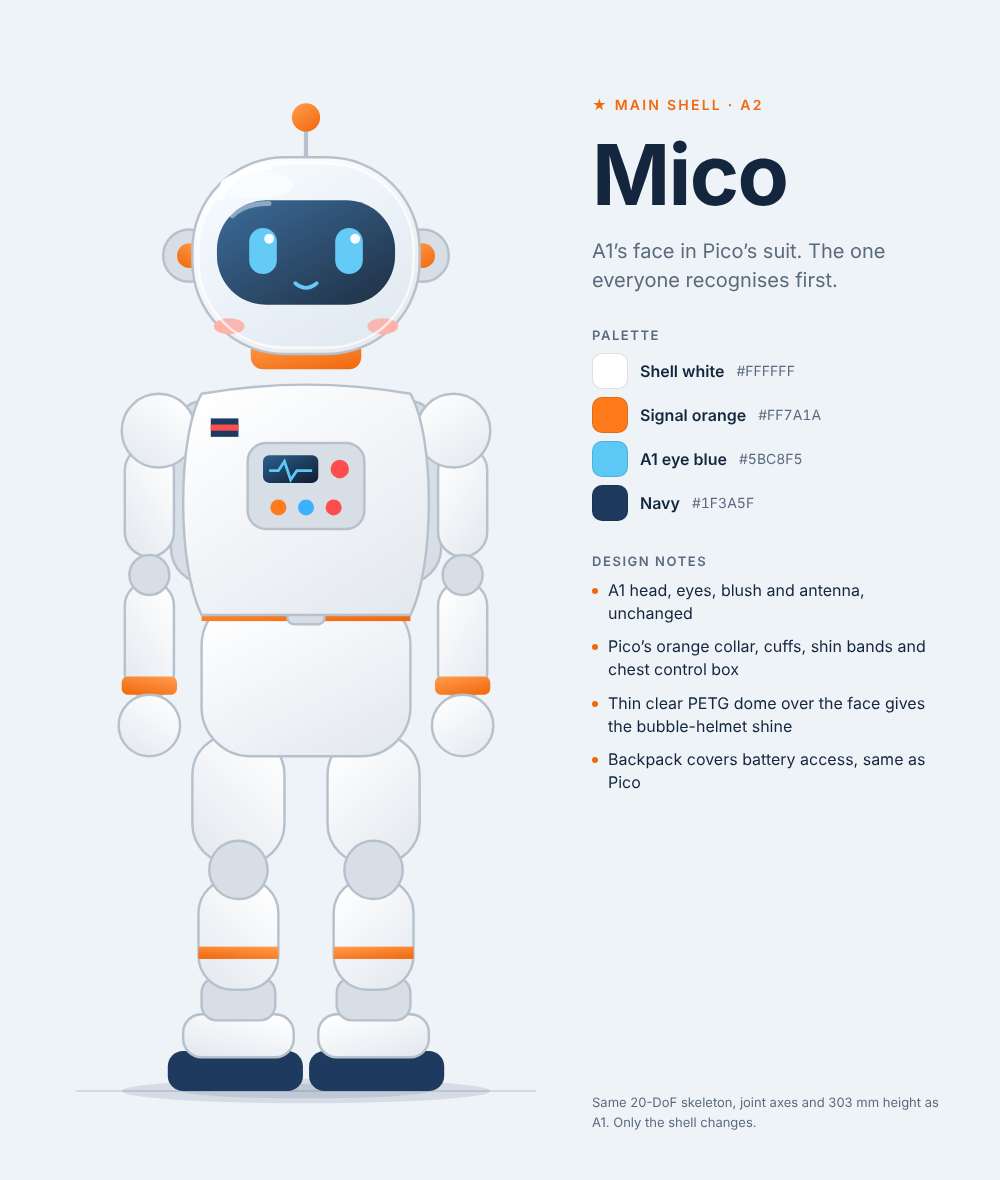
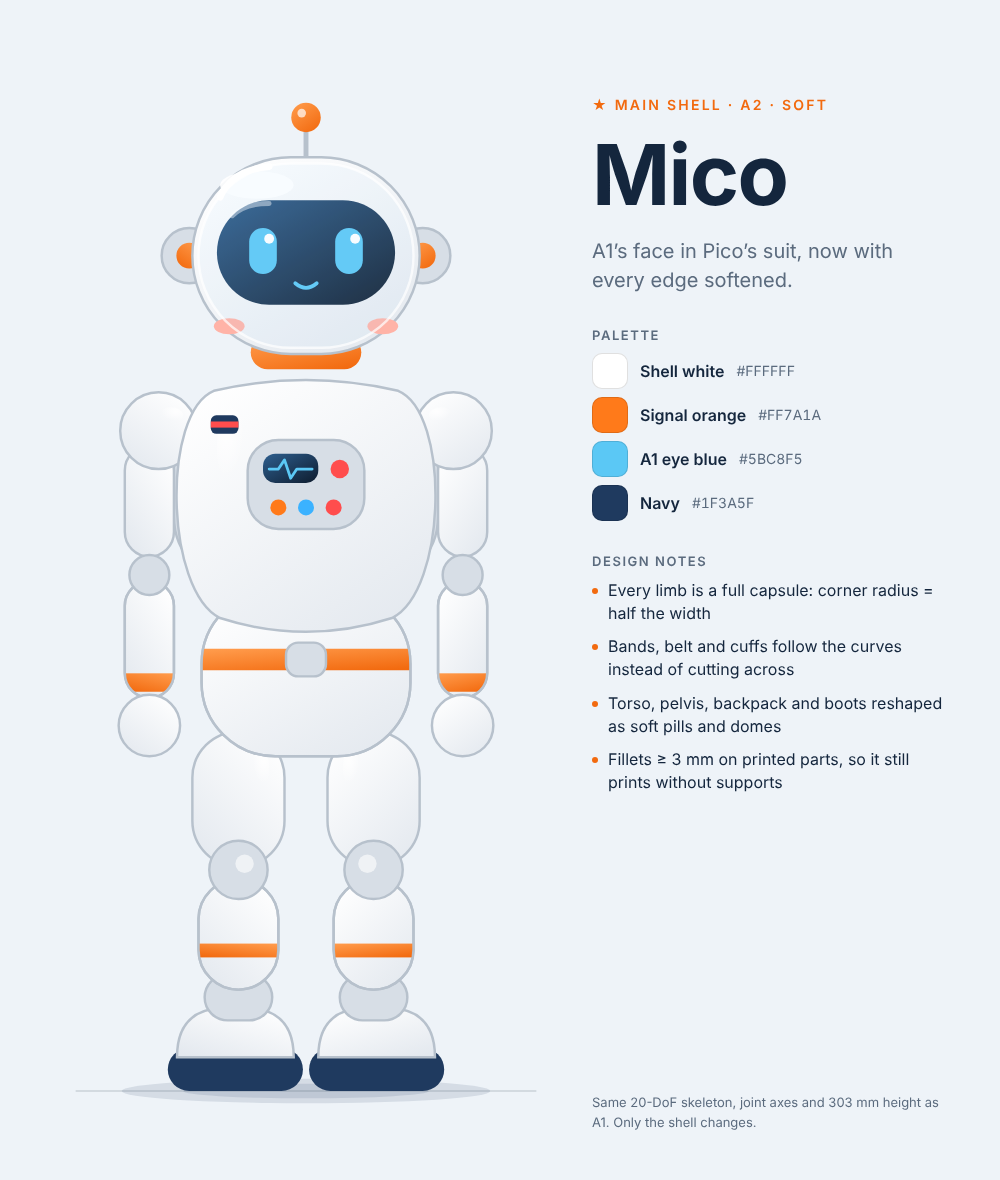
docs(design): soften Mico's shell edges

diff --git a/docs/design/sketch_shell_a/A2_Mico.dc.html b/docs/design/sketch_shell_a/A2_Mico.dc.html
@@ -15,15 +15,15 @@ body{margin:0}
 </style>
 </helmet>
 <div style="width: 1000px; height: 1180px; box-sizing: border-box; padding: 56px 56px 48px; background: #EEF3F8; display: flex; gap: 36px; font-family: Inter, system-ui, sans-serif; color: #14263D">
-<svg viewBox="-80 -6 160 351" width="500" height="1078" role="img" aria-label="A2 Mico: A1’s face in Pico’s suit. The one everyone recognises first." style="flex: none">
-<defs><linearGradient id="mi_sh" x1="0.15" y1="0" x2="0.85" y2="1"><stop offset="0" stop-color="#FFFFFF"></stop><stop offset="1" stop-color="#E4E9EF"></stop></linearGradient><linearGradient id="mi_ac" x1="0.15" y1="0" x2="0.85" y2="1"><stop offset="0" stop-color="#FF9A4A"></stop><stop offset="1" stop-color="#F26A0F"></stop></linearGradient><linearGradient id="mi_vi" x1="0" y1="0" x2="1" y2="1"><stop offset="0" stop-color="#2E5F8F"></stop><stop offset="1" stop-color="#0E1C2E"></stop></linearGradient></defs>
+<svg viewBox="-80 -6 160 351" width="500" height="1078" role="img" aria-label="A2 Mico: A1’s face in Pico’s suit, now with every edge softened." style="flex: none">
+<defs><linearGradient id="mi_sh" x1="0.15" y1="0" x2="0.85" y2="1"><stop offset="0" stop-color="#FFFFFF"></stop><stop offset="1" stop-color="#E4E9EF"></stop></linearGradient><linearGradient id="mi_ac" x1="0.15" y1="0" x2="0.85" y2="1"><stop offset="0" stop-color="#FF9A4A"></stop><stop offset="1" stop-color="#F26A0F"></stop></linearGradient><linearGradient id="mi_vi" x1="0" y1="0" x2="1" y2="1"><stop offset="0" stop-color="#2E5F8F"></stop><stop offset="1" stop-color="#0E1C2E"></stop></linearGradient><radialGradient id="mi_gl" cx="0.3" cy="0.25" r="0.6"><stop offset="0" stop-color="#FFFFFF" stop-opacity="0.9"></stop><stop offset="1" stop-color="#FFFFFF" stop-opacity="0"></stop></radialGradient><clipPath id="mi_shin" clipPathUnits="userSpaceOnUse"><rect x="9" y="262" width="26" height="36" rx="13"></rect></clipPath><clipPath id="mi_fore" clipPathUnits="userSpaceOnUse"><rect x="43" y="165" width="16" height="38" rx="8"></rect></clipPath><clipPath id="mi_pel" clipPathUnits="userSpaceOnUse"><rect x="-34" y="168" width="68" height="54" rx="24"></rect></clipPath></defs>
 <line x1="-75" x2="75" y1="331" y2="331" stroke="#14263D" stroke-opacity="0.12" stroke-width="0.6"></line>
-<ellipse cx="0" cy="331" rx="60" ry="4" fill="#1F3A5F" fill-opacity="0.12"></ellipse><ellipse cx="0" cy="331" rx="40" ry="2.4" fill="#1F3A5F" fill-opacity="0.12"></ellipse><rect x="-44" y="106" width="88" height="60" rx="12" fill="#D7DEE6" stroke="#B7C1CC" stroke-width="0.8"></rect><g><rect x="1" y="318" width="44" height="13" rx="5" fill="#1F3A5F"></rect><rect x="4" y="306" width="36" height="14" rx="6" fill="url(#mi_sh)" stroke="#B7C1CC" stroke-width="0.8"></rect><rect x="10" y="294" width="24" height="14" rx="5" fill="#D7DEE6" stroke="#B7C1CC" stroke-width="0.8"></rect><rect x="9" y="262" width="26" height="36" rx="11" fill="url(#mi_sh)" stroke="#B7C1CC" stroke-width="0.8"></rect><rect x="9" y="284" width="26" height="4" fill="url(#mi_ac)"></rect><rect x="7" y="215" width="30" height="42" rx="13" fill="url(#mi_sh)" stroke="#B7C1CC" stroke-width="0.8"></rect><circle cx="22" cy="259" r="9.5" fill="#D7DEE6" stroke="#B7C1CC" stroke-width="0.8"></circle><rect x="43" y="121" width="16" height="36" rx="8" fill="url(#mi_sh)" stroke="#B7C1CC" stroke-width="0.8"></rect><rect x="43" y="165" width="16" height="38" rx="8" fill="url(#mi_sh)" stroke="#B7C1CC" stroke-width="0.8"></rect><rect x="42" y="196" width="18" height="6" rx="2" fill="url(#mi_ac)"></rect><circle cx="51" cy="163" r="6.5" fill="#D7DEE6" stroke="#B7C1CC" stroke-width="0.8"></circle><circle cx="51" cy="212" r="10" fill="url(#mi_sh)" stroke="#B7C1CC" stroke-width="0.8"></circle><circle cx="48" cy="116" r="12" fill="url(#mi_sh)" stroke="#B7C1CC" stroke-width="0.8"></circle><circle cx="38" cy="59" r="8.5" fill="#D7DEE6" stroke="#B7C1CC" stroke-width="0.8"></circle><circle cx="38" cy="59" r="4" fill="url(#mi_ac)"></circle></g><g transform="scale(-1 1)"><rect x="1" y="318" width="44" height="13" rx="5" fill="#1F3A5F"></rect><rect x="4" y="306" width="36" height="14" rx="6" fill="url(#mi_sh)" stroke="#B7C1CC" stroke-width="0.8"></rect><rect x="10" y="294" width="24" height="14" rx="5" fill="#D7DEE6" stroke="#B7C1CC" stroke-width="0.8"></rect><rect x="9" y="262" width="26" height="36" rx="11" fill="url(#mi_sh)" stroke="#B7C1CC" stroke-width="0.8"></rect><rect x="9" y="284" width="26" height="4" fill="url(#mi_ac)"></rect><rect x="7" y="215" width="30" height="42" rx="13" fill="url(#mi_sh)" stroke="#B7C1CC" stroke-width="0.8"></rect><circle cx="22" cy="259" r="9.5" fill="#D7DEE6" stroke="#B7C1CC" stroke-width="0.8"></circle><rect x="43" y="121" width="16" height="36" rx="8" fill="url(#mi_sh)" stroke="#B7C1CC" stroke-width="0.8"></rect><rect x="43" y="165" width="16" height="38" rx="8" fill="url(#mi_sh)" stroke="#B7C1CC" stroke-width="0.8"></rect><rect x="42" y="196" width="18" height="6" rx="2" fill="url(#mi_ac)"></rect><circle cx="51" cy="163" r="6.5" fill="#D7DEE6" stroke="#B7C1CC" stroke-width="0.8"></circle><circle cx="51" cy="212" r="10" fill="url(#mi_sh)" stroke="#B7C1CC" stroke-width="0.8"></circle><circle cx="48" cy="116" r="12" fill="url(#mi_sh)" stroke="#B7C1CC" stroke-width="0.8"></circle><circle cx="38" cy="59" r="8.5" fill="#D7DEE6" stroke="#B7C1CC" stroke-width="0.8"></circle><circle cx="38" cy="59" r="4" fill="url(#mi_ac)"></circle></g><rect x="-34" y="170" width="68" height="52" rx="16" fill="url(#mi_sh)" stroke="#B7C1CC" stroke-width="0.8"></rect><rect x="-34" y="170" width="68" height="8" fill="url(#mi_ac)"></rect><rect x="-6" y="169" width="12" height="10" rx="2" fill="#D7DEE6" stroke="#B7C1CC" stroke-width="0.8"></rect><path d="M -34 104 C -42 118 -42 160 -34 176 L 34 176 C 42 160 42 118 34 104 Q 0 98 -34 104 Z" fill="url(#mi_sh)" stroke="#B7C1CC" stroke-width="0.8"></path><rect x="-19" y="120" width="38" height="28" rx="6" fill="#D7DEE6" stroke="#B7C1CC" stroke-width="0.8"></rect><rect x="-14" y="124" width="18" height="9" rx="2" fill="url(#mi_vi)"></rect><path d="M -12 129 h 3 l 2 -3 l 2 6 l 2 -3 h 5" fill="none" stroke="#5BC8F5" stroke-width="0.9"></path><circle cx="11" cy="128.5" r="3" fill="#FF4D4D"></circle><circle cx="-9" cy="141" r="2.6" fill="#FF7A1A"></circle><circle cx="0" cy="141" r="2.6" fill="#3BB2FF"></circle><circle cx="9" cy="141" r="2.6" fill="#FF4D4D"></circle><rect x="-31" y="112" width="9" height="6" fill="#1F3A5F"></rect><rect x="-31" y="114" width="9" height="2" fill="#FF4D4D"></rect><rect x="-18" y="86" width="36" height="10" rx="4" fill="url(#mi_ac)"></rect><line x1="0" y1="27" x2="0" y2="17" stroke="#B7C1CC" stroke-width="1.4" stroke-linecap="round"></line><circle cx="0" cy="14" r="4.6" fill="url(#mi_ac)"></circle><rect x="-37" y="27" width="74" height="64" rx="30" fill="url(#mi_sh)" stroke="#B7C1CC" stroke-width="0.8"></rect><ellipse cx="-16" cy="36" rx="12" ry="4.5" fill="#FFFFFF" fill-opacity="0.9"></ellipse><rect x="-29" y="41" width="58" height="34" rx="16" fill="url(#mi_vi)"></rect><rect x="9.5" y="50" width="9" height="15" rx="4.5" fill="#5BC8F5"></rect><rect x="-18.5" y="50" width="9" height="15" rx="4.5" fill="#5BC8F5"></rect><circle cx="16" cy="53.5" r="1.6" fill="#FFFFFF"></circle><circle cx="-12" cy="53.5" r="1.6" fill="#FFFFFF"></circle><path d="M -3.5 68 Q 0 71 3.5 68" fill="none" stroke="#5BC8F5" stroke-width="1.2" stroke-linecap="round"></path><path d="M -24 46 Q -20 42 -12 42" fill="none" stroke="#FFFFFF" stroke-opacity="0.45" stroke-width="1.6" stroke-linecap="round"></path><ellipse cx="25" cy="82" rx="5" ry="2.6" fill="#FFB3A7"></ellipse><ellipse cx="-25" cy="82" rx="5" ry="2.6" fill="#FFB3A7"></ellipse><rect x="-35" y="29" width="70" height="60" rx="28" fill="#BFE6FF" fill-opacity="0.10" stroke="#FFFFFF" stroke-opacity="0.7" stroke-width="0.8"></rect><path d="M -28 40 Q -24 31 -12 30" fill="none" stroke="#FFFFFF" stroke-width="2.2" stroke-linecap="round"></path>
+<ellipse cx="0" cy="331" rx="60" ry="4" fill="#1F3A5F" fill-opacity="0.12"></ellipse><ellipse cx="0" cy="331" rx="40" ry="2.4" fill="#1F3A5F" fill-opacity="0.12"></ellipse><rect x="-43" y="106" width="86" height="60" rx="22" fill="#D7DEE6" stroke="#B7C1CC" stroke-width="0.8"></rect><g><rect x="1" y="317" width="44" height="14" rx="7" fill="#1F3A5F"></rect><path d="M 4 320 Q 4 305 18 304 L 28 304 Q 42 305 42 320 Z" fill="url(#mi_sh)" stroke="#B7C1CC" stroke-width="0.8"></path><rect x="11" y="293" width="22" height="15" rx="7.5" fill="#D7DEE6" stroke="#B7C1CC" stroke-width="0.8"></rect><rect x="9" y="262" width="26" height="36" rx="13" fill="url(#mi_sh)" stroke="#B7C1CC" stroke-width="0.8"></rect><g clip-path="url(#mi_shin)"><rect x="8" y="283" width="28" height="4.5" fill="url(#mi_ac)"></rect></g><rect x="9" y="262" width="26" height="36" rx="13" fill="none" stroke="#B7C1CC" stroke-width="0.8"></rect><rect x="7" y="214" width="30" height="44" rx="15" fill="url(#mi_sh)" stroke="#B7C1CC" stroke-width="0.8"></rect><ellipse cx="15" cy="226" rx="3" ry="7" fill="url(#mi_gl)"></ellipse><circle cx="22" cy="259" r="9.5" fill="#D7DEE6" stroke="#B7C1CC" stroke-width="0.8"></circle><circle cx="20" cy="257" r="3" fill="#FFFFFF" fill-opacity="0.6"></circle><rect x="43" y="121" width="16" height="36" rx="8" fill="url(#mi_sh)" stroke="#B7C1CC" stroke-width="0.8"></rect><rect x="43" y="165" width="16" height="38" rx="8" fill="url(#mi_sh)" stroke="#B7C1CC" stroke-width="0.8"></rect><g clip-path="url(#mi_fore)"><rect x="42" y="195" width="18" height="6" fill="url(#mi_ac)"></rect></g><rect x="43" y="165" width="16" height="38" rx="8" fill="none" stroke="#B7C1CC" stroke-width="0.8"></rect><circle cx="51" cy="163" r="6.5" fill="#D7DEE6" stroke="#B7C1CC" stroke-width="0.8"></circle><circle cx="51" cy="212" r="10" fill="url(#mi_sh)" stroke="#B7C1CC" stroke-width="0.8"></circle><circle cx="48" cy="116" r="12.5" fill="url(#mi_sh)" stroke="#B7C1CC" stroke-width="0.8"></circle><ellipse cx="44" cy="111" rx="4" ry="2.6" fill="url(#mi_gl)"></ellipse><circle cx="38" cy="59" r="9" fill="#D7DEE6" stroke="#B7C1CC" stroke-width="0.8"></circle><circle cx="38" cy="59" r="4.2" fill="url(#mi_ac)"></circle></g><g transform="scale(-1 1)"><rect x="1" y="317" width="44" height="14" rx="7" fill="#1F3A5F"></rect><path d="M 4 320 Q 4 305 18 304 L 28 304 Q 42 305 42 320 Z" fill="url(#mi_sh)" stroke="#B7C1CC" stroke-width="0.8"></path><rect x="11" y="293" width="22" height="15" rx="7.5" fill="#D7DEE6" stroke="#B7C1CC" stroke-width="0.8"></rect><rect x="9" y="262" width="26" height="36" rx="13" fill="url(#mi_sh)" stroke="#B7C1CC" stroke-width="0.8"></rect><g clip-path="url(#mi_shin)"><rect x="8" y="283" width="28" height="4.5" fill="url(#mi_ac)"></rect></g><rect x="9" y="262" width="26" height="36" rx="13" fill="none" stroke="#B7C1CC" stroke-width="0.8"></rect><rect x="7" y="214" width="30" height="44" rx="15" fill="url(#mi_sh)" stroke="#B7C1CC" stroke-width="0.8"></rect><ellipse cx="15" cy="226" rx="3" ry="7" fill="url(#mi_gl)"></ellipse><circle cx="22" cy="259" r="9.5" fill="#D7DEE6" stroke="#B7C1CC" stroke-width="0.8"></circle><circle cx="20" cy="257" r="3" fill="#FFFFFF" fill-opacity="0.6"></circle><rect x="43" y="121" width="16" height="36" rx="8" fill="url(#mi_sh)" stroke="#B7C1CC" stroke-width="0.8"></rect><rect x="43" y="165" width="16" height="38" rx="8" fill="url(#mi_sh)" stroke="#B7C1CC" stroke-width="0.8"></rect><g clip-path="url(#mi_fore)"><rect x="42" y="195" width="18" height="6" fill="url(#mi_ac)"></rect></g><rect x="43" y="165" width="16" height="38" rx="8" fill="none" stroke="#B7C1CC" stroke-width="0.8"></rect><circle cx="51" cy="163" r="6.5" fill="#D7DEE6" stroke="#B7C1CC" stroke-width="0.8"></circle><circle cx="51" cy="212" r="10" fill="url(#mi_sh)" stroke="#B7C1CC" stroke-width="0.8"></circle><circle cx="48" cy="116" r="12.5" fill="url(#mi_sh)" stroke="#B7C1CC" stroke-width="0.8"></circle><ellipse cx="44" cy="111" rx="4" ry="2.6" fill="url(#mi_gl)"></ellipse><circle cx="38" cy="59" r="9" fill="#D7DEE6" stroke="#B7C1CC" stroke-width="0.8"></circle><circle cx="38" cy="59" r="4.2" fill="url(#mi_ac)"></circle></g><rect x="-34" y="168" width="68" height="54" rx="24" fill="url(#mi_sh)" stroke="#B7C1CC" stroke-width="0.8"></rect><g clip-path="url(#mi_pel)"><rect x="-35" y="187" width="70" height="7" fill="url(#mi_ac)"></rect></g><rect x="-34" y="168" width="68" height="54" rx="24" fill="none" stroke="#B7C1CC" stroke-width="0.8"></rect><rect x="-6.5" y="185" width="13" height="11" rx="4" fill="#D7DEE6" stroke="#B7C1CC" stroke-width="0.8"></rect><path d="M -30 103 C -47 110 -46 168 -28 177 Q 0 186 28 177 C 46 168 47 110 30 103 Q 0 96 -30 103 Z" fill="url(#mi_sh)" stroke="#B7C1CC" stroke-width="0.8"></path><ellipse cx="-24" cy="122" rx="5" ry="13" fill="url(#mi_gl)"></ellipse><rect x="-19" y="119" width="38" height="29" rx="10" fill="#D7DEE6" stroke="#B7C1CC" stroke-width="0.8"></rect><rect x="-14" y="123.5" width="18" height="9.5" rx="4" fill="url(#mi_vi)"></rect><path d="M -12 128.5 h 3 l 2 -3 l 2 6 l 2 -3 h 5" fill="none" stroke="#5BC8F5" stroke-width="0.9" stroke-linecap="round" stroke-linejoin="round"></path><circle cx="11" cy="128.5" r="3" fill="#FF4D4D"></circle><circle cx="-9" cy="141" r="2.6" fill="#FF7A1A"></circle><circle cx="0" cy="141" r="2.6" fill="#3BB2FF"></circle><circle cx="9" cy="141" r="2.6" fill="#FF4D4D"></circle><rect x="-31" y="111" width="9" height="6" rx="1.8" fill="#1F3A5F"></rect><rect x="-31" y="113" width="9" height="2" fill="#FF4D4D"></rect><rect x="-18" y="85" width="36" height="11" rx="5.5" fill="url(#mi_ac)"></rect><line x1="0" y1="27" x2="0" y2="17" stroke="#B7C1CC" stroke-width="1.6" stroke-linecap="round"></line><circle cx="0" cy="14" r="4.8" fill="url(#mi_ac)"></circle><circle cx="-1.4" cy="12.6" r="1.4" fill="#FFFFFF" fill-opacity="0.7"></circle><rect x="-37" y="27" width="74" height="64" rx="32" fill="url(#mi_sh)" stroke="#B7C1CC" stroke-width="0.8"></rect><ellipse cx="-16" cy="36" rx="12" ry="4.5" fill="#FFFFFF" fill-opacity="0.9"></ellipse><rect x="-29" y="41" width="58" height="34" rx="17" fill="url(#mi_vi)"></rect><rect x="9.5" y="50" width="9" height="15" rx="4.5" fill="#5BC8F5"></rect><rect x="-18.5" y="50" width="9" height="15" rx="4.5" fill="#5BC8F5"></rect><circle cx="16" cy="53.5" r="1.6" fill="#FFFFFF"></circle><circle cx="-12" cy="53.5" r="1.6" fill="#FFFFFF"></circle><path d="M -3.5 68 Q 0 71 3.5 68" fill="none" stroke="#5BC8F5" stroke-width="1.2" stroke-linecap="round"></path><path d="M -24 46 Q -20 42 -12 42" fill="none" stroke="#FFFFFF" stroke-opacity="0.45" stroke-width="1.6" stroke-linecap="round"></path><ellipse cx="25" cy="82" rx="5" ry="2.6" fill="#FFB3A7"></ellipse><ellipse cx="-25" cy="82" rx="5" ry="2.6" fill="#FFB3A7"></ellipse><rect x="-35" y="29" width="70" height="60" rx="30" fill="#BFE6FF" fill-opacity="0.10" stroke="#FFFFFF" stroke-opacity="0.7" stroke-width="0.8"></rect><path d="M -28 40 Q -24 31 -12 30" fill="none" stroke="#FFFFFF" stroke-width="2.2" stroke-linecap="round"></path>
 </svg>
 <div style="flex: 1 1 0; min-width: 0; display: flex; flex-direction: column; gap: 22px; padding-top: 40px">
-<p style="margin: 0; font-size: 14px; font-weight: 600; letter-spacing: 0.16em; color: #F26A0F">★ MAIN SHELL · A2</p>
+<p style="margin: 0; font-size: 14px; font-weight: 600; letter-spacing: 0.16em; color: #F26A0F">★ MAIN SHELL · A2 · SOFT</p>
 <h1 style="margin: 0; font-family: 'Space Grotesk', Inter, sans-serif; font-size: 84px; line-height: 0.95; font-weight: 700; letter-spacing: -0.02em">Mico</h1>
-<p style="margin: 0; font-size: 20px; line-height: 1.45; color: #5B6B7E">A1’s face in Pico’s suit. The one everyone recognises first.</p>
+<p style="margin: 0; font-size: 20px; line-height: 1.45; color: #5B6B7E">A1’s face in Pico’s suit, now with every edge softened.</p>
 <div style="display: flex; flex-direction: column; gap: 10px; padding-top: 10px">
 <p style="margin: 0; font-size: 13px; font-weight: 600; letter-spacing: 0.12em; color: #5B6B7E">PALETTE</p>
 <div style="display: flex; flex-direction: column; gap: 8px">
@@ -35,10 +35,10 @@ body{margin:0}
 </div>
 <div style="display: flex; flex-direction: column; gap: 10px; padding-top: 10px">
 <p style="margin: 0; font-size: 13px; font-weight: 600; letter-spacing: 0.12em; color: #5B6B7E">DESIGN NOTES</p>
-<div style="display: flex; gap: 10px; font-size: 16px; line-height: 1.45"><span style="width: 6px; height: 6px; border-radius: 3px; background: #F26A0F; flex: none; margin-top: 9px"></span><span>A1 head, eyes, blush and antenna, unchanged</span></div>
-<div style="display: flex; gap: 10px; font-size: 16px; line-height: 1.45"><span style="width: 6px; height: 6px; border-radius: 3px; background: #F26A0F; flex: none; margin-top: 9px"></span><span>Pico’s orange collar, cuffs, shin bands and chest control box</span></div>
-<div style="display: flex; gap: 10px; font-size: 16px; line-height: 1.45"><span style="width: 6px; height: 6px; border-radius: 3px; background: #F26A0F; flex: none; margin-top: 9px"></span><span>Thin clear PETG dome over the face gives the bubble-helmet shine</span></div>
-<div style="display: flex; gap: 10px; font-size: 16px; line-height: 1.45"><span style="width: 6px; height: 6px; border-radius: 3px; background: #F26A0F; flex: none; margin-top: 9px"></span><span>Backpack covers battery access, same as Pico</span></div>
+<div style="display: flex; gap: 10px; font-size: 16px; line-height: 1.45"><span style="width: 6px; height: 6px; border-radius: 3px; background: #F26A0F; flex: none; margin-top: 9px"></span><span>Every limb is a full capsule: corner radius = half the width</span></div>
+<div style="display: flex; gap: 10px; font-size: 16px; line-height: 1.45"><span style="width: 6px; height: 6px; border-radius: 3px; background: #F26A0F; flex: none; margin-top: 9px"></span><span>Bands, belt and cuffs follow the curves instead of cutting across</span></div>
+<div style="display: flex; gap: 10px; font-size: 16px; line-height: 1.45"><span style="width: 6px; height: 6px; border-radius: 3px; background: #F26A0F; flex: none; margin-top: 9px"></span><span>Torso, pelvis, backpack and boots reshaped as soft pills and domes</span></div>
+<div style="display: flex; gap: 10px; font-size: 16px; line-height: 1.45"><span style="width: 6px; height: 6px; border-radius: 3px; background: #F26A0F; flex: none; margin-top: 9px"></span><span>Fillets ≥ 3 mm on printed parts, so it still prints without supports</span></div>
 </div>
 <p style="margin: auto 0 0; font-size: 13px; line-height: 1.5; color: #5B6B7E">Same 20-DoF skeleton, joint axes and 303 mm height as A1. Only the shell changes.</p>
 </div>

diff --git a/docs/design/sketch_shell_a/README.md b/docs/design/sketch_shell_a/README.md
@@ -1,7 +1,7 @@
 # Mini humanoid sketches (v0.5)
 
 **Main shell: A2 · Mico.** A1's face in Pico's suit: white shell, signal-orange collar, cuffs and
-shin bands, chest control box, backpack over the battery, clear PETG dome over the face.
+shin bands, chest control box, backpack over the battery, clear PETG dome over the face. Every part is a soft capsule or dome.
 
 ![Mico, main shell](images/a2_mico.png)
 
